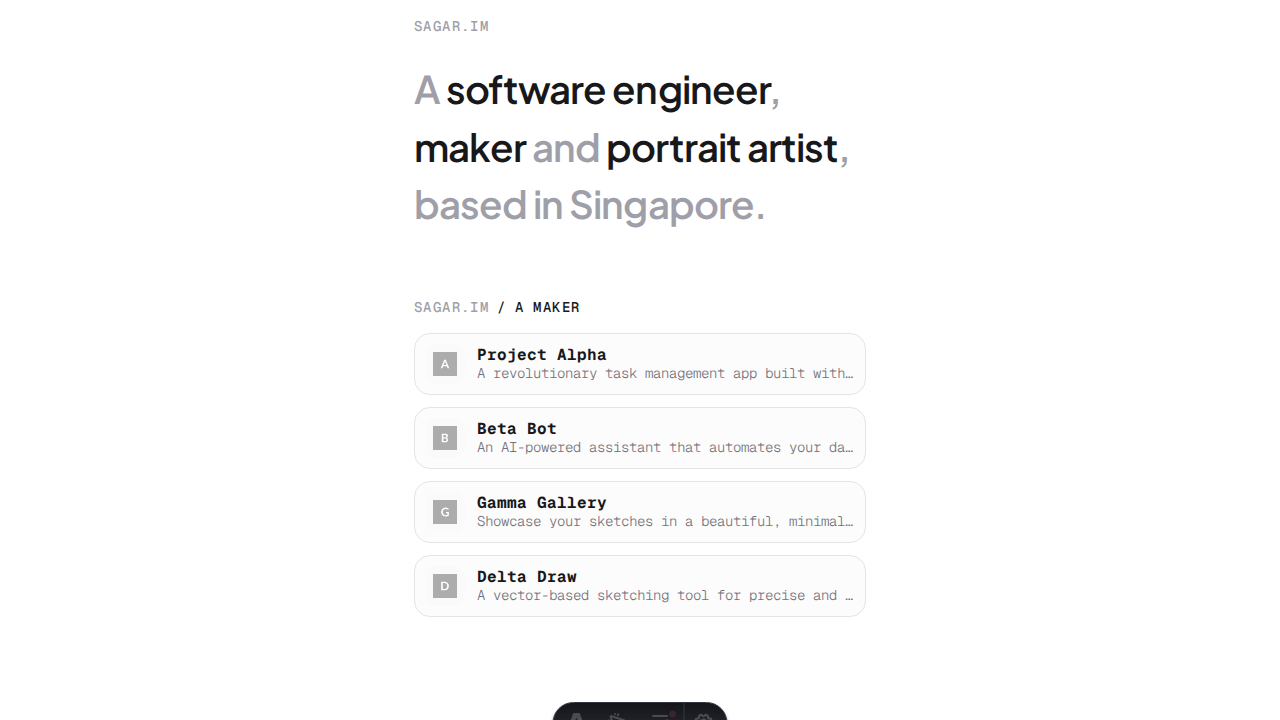
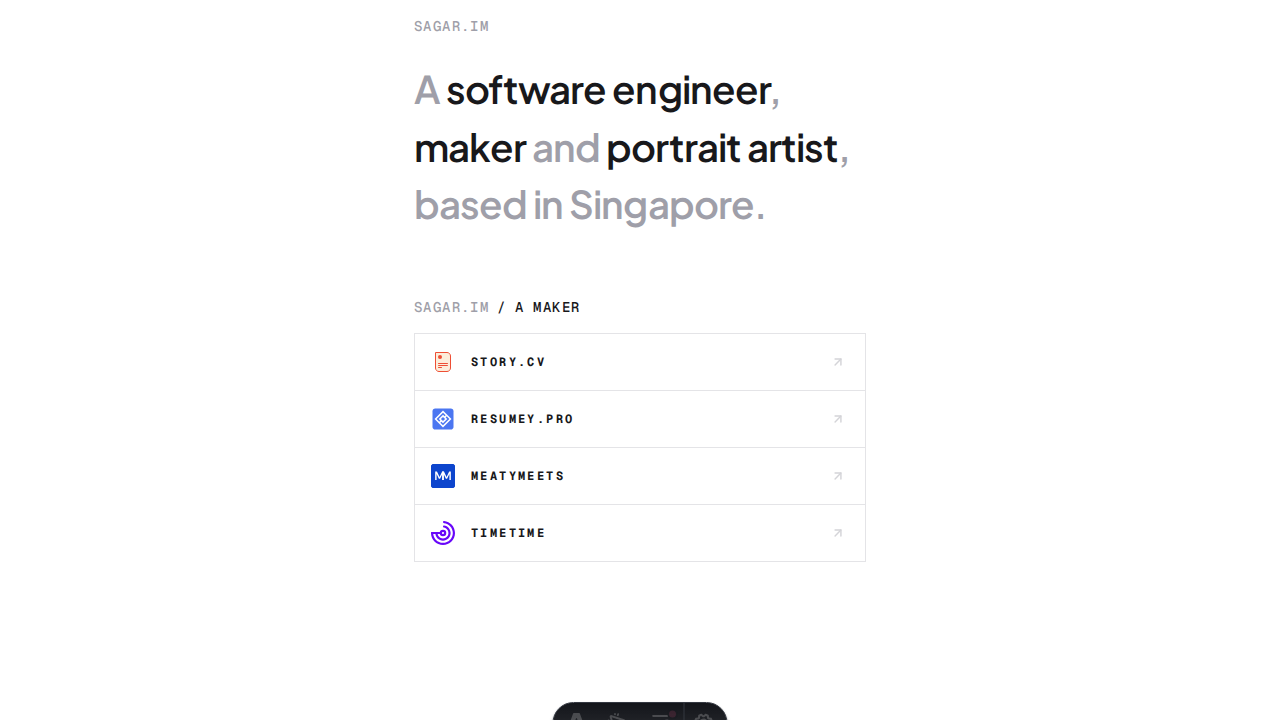
Update maker section apps with real products (#10)
* Update maker section apps with story.cv, ResumeyPro, MeatyMeets, and TimeTime

- Replaced placeholder apps in `src/content/apps/` with actual products.
- Sourced descriptions and logos from the respective websites.
- Set the correct display order from 1 to 4.
- Updated screenshots to reflect the new content.

* Update maker section apps and improve card design

- Added story.cv, ResumeyPro, MeatyMeets, and TimeTime to the maker section.
- Improved app card design:
  - Removed truncation to show full descriptions.
  - Switched to top-aligned flex layout (`items-start`).
  - Increased padding and spacing for better readability.
  - Enhanced hover states with primary color transitions and a sliding arrow icon.
  - Standardized logo container and image sizes.
- Updated screenshots to reflect the new content and design.

* Implement monochrome grid with overlay reveal in maker section

- Updated maker section to a 2-column monochrome grid.
- Implemented overlay reveal interaction showing app name, description, and link.
- Added smooth scale and opacity transitions for logos.
- Used dark zinc background and orange action buttons for overlays.
- Sourced and updated app content for story.cv, ResumeyPro, MeatyMeets, and TimeTime.
- Updated screenshots to reflect the new design.

* feat: update maker section with new apps and rectangular interactive layout

- Added four new apps to the maker section: story.cv, ResumeyPro, MeatyMeets, and TimeTime.
[…]

Changed region(s): [[0.3125, 0.4889, 0.6562, 0.7639], [0.3125, 0.7944, 0.6562, 0.8556]]

diff --git a/src/content/apps/timetime.md b/src/content/apps/timetime.md
@@ -1,0 +1,7 @@
+---
+name: "TimeTime"
+description: "Desktop app that meticulously tracks multiple projects without interrupting your focused work."
+logo: "https://timetime.gitlab.io/assets/images/logo.svg"
+url: "https://timetime.gitlab.io"
+order: 4
+---

diff --git a/src/content/apps/resumey-pro.md b/src/content/apps/resumey-pro.md
@@ -1,0 +1,7 @@
+---
+name: "Resumey.Pro"
+description: "Create professional Markdown resumes that make you stand out from the crowd."
+logo: "https://resumey.pro/static/images/logos/logo.ef6a16d52e07.svg"
+url: "https://resumey.pro"
+order: 2
+---

diff --git a/src/content/apps/meatymeets.md b/src/content/apps/meatymeets.md
@@ -1,0 +1,7 @@
+---
+name: "MeatyMeets"
+description: "Hassle-free way to join, prep and engage in Google Meet meetings."
+logo: "https://meatymeets.github.io/icons/icon.svg"
+url: "https://meatymeets.github.io"
+order: 3
+---

diff --git a/src/content/apps/story-cv.md b/src/content/apps/story-cv.md
@@ -1,0 +1,7 @@
+---
+name: "story.cv"
+description: "AI resume writer that turns your work experiences into a compelling narrative."
+logo: "https://story.cv/favicon.svg"
+url: "https://story.cv"
+order: 1
+---
